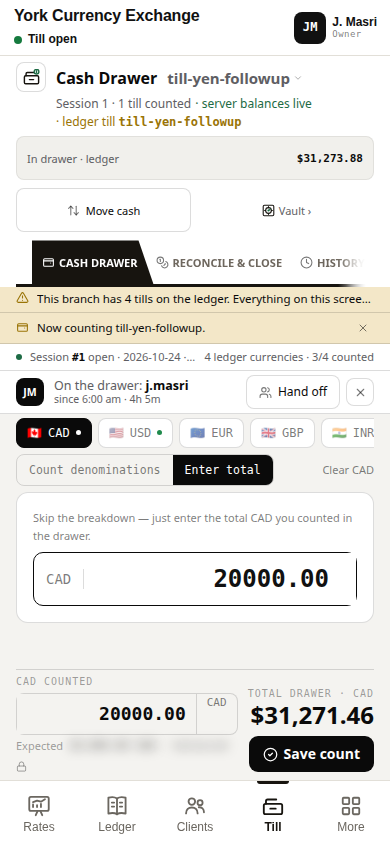
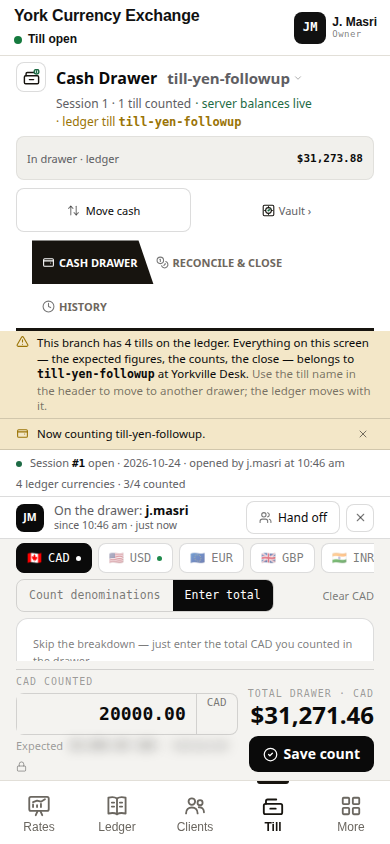
fix: wrap the session line and fill the desk with Reports
The session line and the multi-till banner wrap instead of ending in an ellipsis. History stays a whole tab at 360. The Reports window uses the same full-desk width as the till.

Changed region(s): [[0.0, 0.3081, 1.0, 0.7701]]

diff --git a/os-src/york-os.css b/os-src/york-os.css
@@ -1774,9 +1774,11 @@ html[data-cdtheme="dark"] .cdos-tour-next:hover { background: #fff; }
   min-width: 0;
 }
 /* On a desktop the till is a panel across the desk, not a 900px
-   card floating in the middle. A phone already fills the desk. */
+   card floating in the middle. Reports uses that same width. A
+   phone already fills the desk. */
 @media (min-width: 431px) {
-  #desktop .win:has(.till-screen) {
+  #desktop .win:has(.till-screen),
+  #desktop .win:has(.win-body[data-screen-label="Reports"]) {
     left: 0 !important;
     width: 100% !important;
     max-width: none !important;
@@ -1796,9 +1798,17 @@ html[data-cdtheme="dark"] .cdos-tour-next:hover { background: #fff; }
 }
 .till-sessionline {
   min-width: 0;
+  max-width: 100%;
   flex-wrap: wrap;
+  align-items: baseline;
+  row-gap: 2px;
 }
-.till-sessionline > span { min-width: 0; }
+.till-sessionline > span {
+  min-width: 0;
+  max-width: 100%;
+  white-space: normal;
+  overflow-wrap: anywhere;
+}
 .till-recon-widehead {
   width: 100%;
   max-width: 100%;
@@ -2446,28 +2456,24 @@ html[data-cdtheme="dark"] .cdos-tour-next:hover { background: #fff; }
     box-sizing: border-box;
     justify-content: center;
   }
-  /* Three folder tabs do not fit. The bar scrolls, and the fade
-     on the right says there is more. Extra padding lets the last
-     tab scroll clear of that fade. */
+  /* Three folder tabs do not fit on one line. They wrap, so
+     History is a whole label. A fade over a scrolling bar was
+     cutting that word. */
   [data-tour="till"] .till-tabwrap {
     display: block;
     position: relative;
   }
-  [data-tour="till"] .till-tabwrap::after {
-    content: "";
-    position: absolute;
-    top: 0;
-    right: 0;
-    bottom: 0;
-    width: 36px;
-    z-index: 2;
-    pointer-events: none;
-    background: linear-gradient(90deg, rgba(255,255,255,0), #fff 78%);
-  }
+  [data-tour="till"] .till-tabwrap::after { content: none; display: none; }
   [data-tour="till"] .fld-bar {
-    padding-right: 36px !important;
-    scroll-padding-right: 36px;
+    flex-wrap: wrap !important;
+    overflow: visible !important;
+    max-height: none !important;
+    row-gap: 0;
+    padding-right: 12px !important;
+    -webkit-mask-image: none !important;
+    mask-image: none !important;
   }
+  [data-tour="till"] .fld-tab { white-space: nowrap; }
 
   /* Dialogs are centred on the whole screen, so on a phone the
      bottom of a tall one sat under the bar. Keep the scrim, and
@@ -2917,55 +2923,53 @@ html[data-cdtheme="dark"] .cdos-tour-next:hover { background: #fff; }
     white-space: nowrap;
     color: var(--ink, #17140F);
   }
-  /* The session sentence is one line. Wrapping it hid a denomination. */
-  .till-sessionline { flex-wrap: nowrap !important; }
-  .till-sessionline > .flex-1 {
-    overflow: hidden;
-    text-overflow: ellipsis;
-    white-space: nowrap;
+  /* The session line wraps like the header status line. A nowrap
+     line with an ellipsis was cutting the opened-by sentence. */
+  .till-sessionline {
+    flex-wrap: wrap !important;
+    align-items: baseline;
+    max-width: 100%;
     min-width: 0;
+    overflow: visible;
+    row-gap: 2px;
   }
-  /* The note names the drawer. -webkit-box sized it to the whole
-     sentence, which ran past the screen. It stays two lines, inside
-     the column. */
+  .till-sessionline > span,
+  .till-sessionline > .flex-1 {
+    flex: 1 1 auto;
+    min-width: 0;
+    max-width: 100%;
+    overflow: visible;
+    text-overflow: clip;
+    white-space: normal !important;
+    overflow-wrap: anywhere;
+  }
+  .till-sessionline > span:first-child { flex: none; }
+  /* The multi-till banner names the drawer. The whole sentence
+     stays on the screen. An ellipsis was hiding the rest. */
   .till-scope-note {
     width: 100%;
     max-width: 100%;
     min-width: 0;
     box-sizing: border-box;
-    overflow: hidden;
+    overflow: visible;
     padding-top: 6px !important;
     padding-bottom: 6px !important;
   }
-  /* One line. Two lines hid a denomination at 360. The inner
-     bold and span do not make their own boxes, or a nowrap line
-     reports them past the screen even when the note is clipped. */
   .till-scope-note > .flex-1 {
-    flex: 1 1 0%;
+    flex: 1 1 auto;
     width: auto;
     min-width: 0;
     max-width: 100%;
-    overflow: hidden;
+    overflow: visible;
     display: block;
-    white-space: nowrap;
-    text-overflow: ellipsis;
+    white-space: normal !important;
+    text-overflow: clip;
+    overflow-wrap: anywhere;
     line-height: 1.35;
   }
   .till-scope-note > .flex-1 > b,
   .till-scope-note > .flex-1 > span {
-    display: contents;
-  }
-  .till-sessionline {
-    max-width: 100%;
-    min-width: 0;
-    overflow: hidden;
-  }
-  .till-sessionline > span:nth-child(2) {
-    flex: 1 1 0%;
-    min-width: 0;
-    overflow: hidden;
-    text-overflow: ellipsis;
-    white-space: nowrap;
+    display: inline;
   }
   .till-grand:has(.till-grand-num[data-absent="1"]) .till-grand-label {
     font-size: 0 !important;

diff --git a/tests/e2e/yen-followup.spec.ts b/tests/e2e/yen-followup.spec.ts
@@ -298,6 +298,42 @@ test("the 1280 Counted column keeps each currency's places", async ({ page }, te
     await page.locator("[data-tour='till']").scrollIntoViewIfNeeded();
     const bannerFits = await page.locator(".till-statusline").first().evaluate((el) => el.scrollWidth <= el.clientWidth);
     expect(bannerFits).toBe(true);
+    const sessionFits = await page.locator(".till-sessionline").first().evaluate((el) => {
+      const style = getComputedStyle(el);
+      const kids = [...el.querySelectorAll(":scope > span")].every((span) => {
+        const kid = getComputedStyle(span);
+        return span.scrollWidth <= span.clientWidth + 1 && kid.textOverflow !== "ellipsis" && kid.whiteSpace !== "nowrap";
+      });
+      return style.flexWrap === "wrap" && el.scrollWidth <= el.clientWidth + 1 && kids;
+    });
+    expect(sessionFits).toBe(true);
+    const noteFits = await page.locator(".till-scope-note").first().evaluate((el) => {
+      const body = el.querySelector(".flex-1") as HTMLElement | null;
+      if (!body) return false;
+      const style = getComputedStyle(body);
+      const text = body.textContent || "";
+      return text.includes("tills on the ledger")
+        && body.scrollWidth <= body.clientWidth + 1
+        && body.scrollHeight <= el.clientHeight + 2
+        && style.textOverflow !== "ellipsis"
+        && style.whiteSpace !== "nowrap";
+    });
+    expect(noteFits).toBe(true);
+    const historyWhole = await page.locator(".till-tabwrap .fld-tab", { hasText: "History" }).evaluate((el) => {
+      const box = el.getBoundingClientRect();
+      const text = [...el.childNodes].find((node) => node.nodeType === Node.TEXT_NODE && (node.textContent || "").includes("History"));
+      if (!text) return false;
+      const range = document.createRange();
+      range.selectNodeContents(text);
+      const rects = [...range.getClientRects()];
+      return box.width > 8
+        && box.left >= -1
+        && box.right <= window.innerWidth + 1
+        && el.scrollWidth <= el.clientWidth + 1
+        && rects.length > 0
+        && rects.every((rect) => rect.width > 2 && rect.left >= -1 && rect.right <= window.innerWidth + 1 && rect.right <= box.right - 8);
+    });
+    expect(historyWhole).toBe(true);
     const panelWide = await page.evaluate(() => {
       const desk = document.getElementById("desktop");
       const win = document.querySelector(".win:has(.till-screen)");
@@ -319,6 +355,13 @@ test("the 1280 Counted column keeps each currency's places", async ({ page }, te
     const table = page.locator("table").filter({ hasText: "In the drawer" });
     await table.scrollIntoViewIfNeeded();
     await assertNoClip(page);
+    const reportWide = await page.evaluate(() => {
+      const desk = document.getElementById("desktop");
+      const win = document.querySelector('.win:has(.win-body[data-screen-label="Reports"])');
+      if (!desk || !win) return false;
+      return Math.abs(win.getBoundingClientRect().width - desk.getBoundingClientRect().width) <= 1;
+    });
+    expect(reportWide).toBe(true);
     const varianceHead = table.locator("th", { hasText: "Variance" });
     await varianceHead.evaluate((el) => el.scrollIntoView({ inline: "end", block: "nearest" }));
     const varianceOnScreen = await varianceHead.evaluate((el) => {

diff --git a/docs/PROJECT_STATE.md b/docs/PROJECT_STATE.md
@@ -72,7 +72,7 @@ Full map, routes and build commands: `docs/REPOSITORY_MAP.md`.
 
 ## Current active work
 
-- **The till banner counts the till, and the clocks are the desk's.** Three currencies counted on one till read "1 till counted". A till with no session says "Session not opened" and "Nobody is on this till. No session is open." Showing the float says "Show the expected amount." Hiding it says "Hide expected. Keep the count blind." The end-of-day empty cell says "Not in this till." A missing variance says "No variance." A missing safe balance says "Not in the safe." The close review says "Not counted." and keeps CAD cents. Session, shift, and closed-by stamps use the desk 12-hour clock in the branch zone, so 20:30 UTC at a Toronto till reads 4:30 pm. On a desktop the till window fills the desk, and the status line wraps instead of being cut off. A narrow report scrolls sideways so the Variance column stays whole. The Counted column keeps the currency's places: 20,000.00 CAD, 5,000.00 USD, and 489,177 JPY. KWD, BHD, OMR, JOD, IQD, LYD, and TND show three places on the screen. The ledger still stores two.
+- **The till banner counts the till, and the clocks are the desk's.** Three currencies counted on one till read "1 till counted". A till with no session says "Session not opened" and "Nobody is on this till. No session is open." Showing the float says "Show the expected amount." Hiding it says "Hide expected. Keep the count blind." The end-of-day empty cell says "Not in this till." A missing variance says "No variance." A missing safe balance says "Not in the safe." The close review says "Not counted." and keeps CAD cents. Session, shift, and closed-by stamps use the desk 12-hour clock in the branch zone, so 20:30 UTC at a Toronto till reads 4:30 pm. On a desktop the till window fills the desk, and the status line wraps instead of being cut off. The session line wraps the same way. At 360 the multi-till banner and the History tab stay whole. The Reports window fills the desk. A narrow report scrolls sideways so the Variance column stays whole. The Counted column keeps the currency's places: 20,000.00 CAD, 5,000.00 USD, and 489,177 JPY. KWD, BHD, OMR, JOD, IQD, LYD, and TND show three places on the screen. The ledger still stores two.
 
 - **Posting a quote returns the quote connection before the deal checks one out.** The quote check commits first. The deal is still its own serializable transaction: frozen terms, the idempotency row, and the journal commit together, and a replay of that post returns the same deal. The quote connection is back in the pool before that transaction starts, so a full pool of posts no longer waits forever for a second connection. A single post after that burst gets a connection.
 
